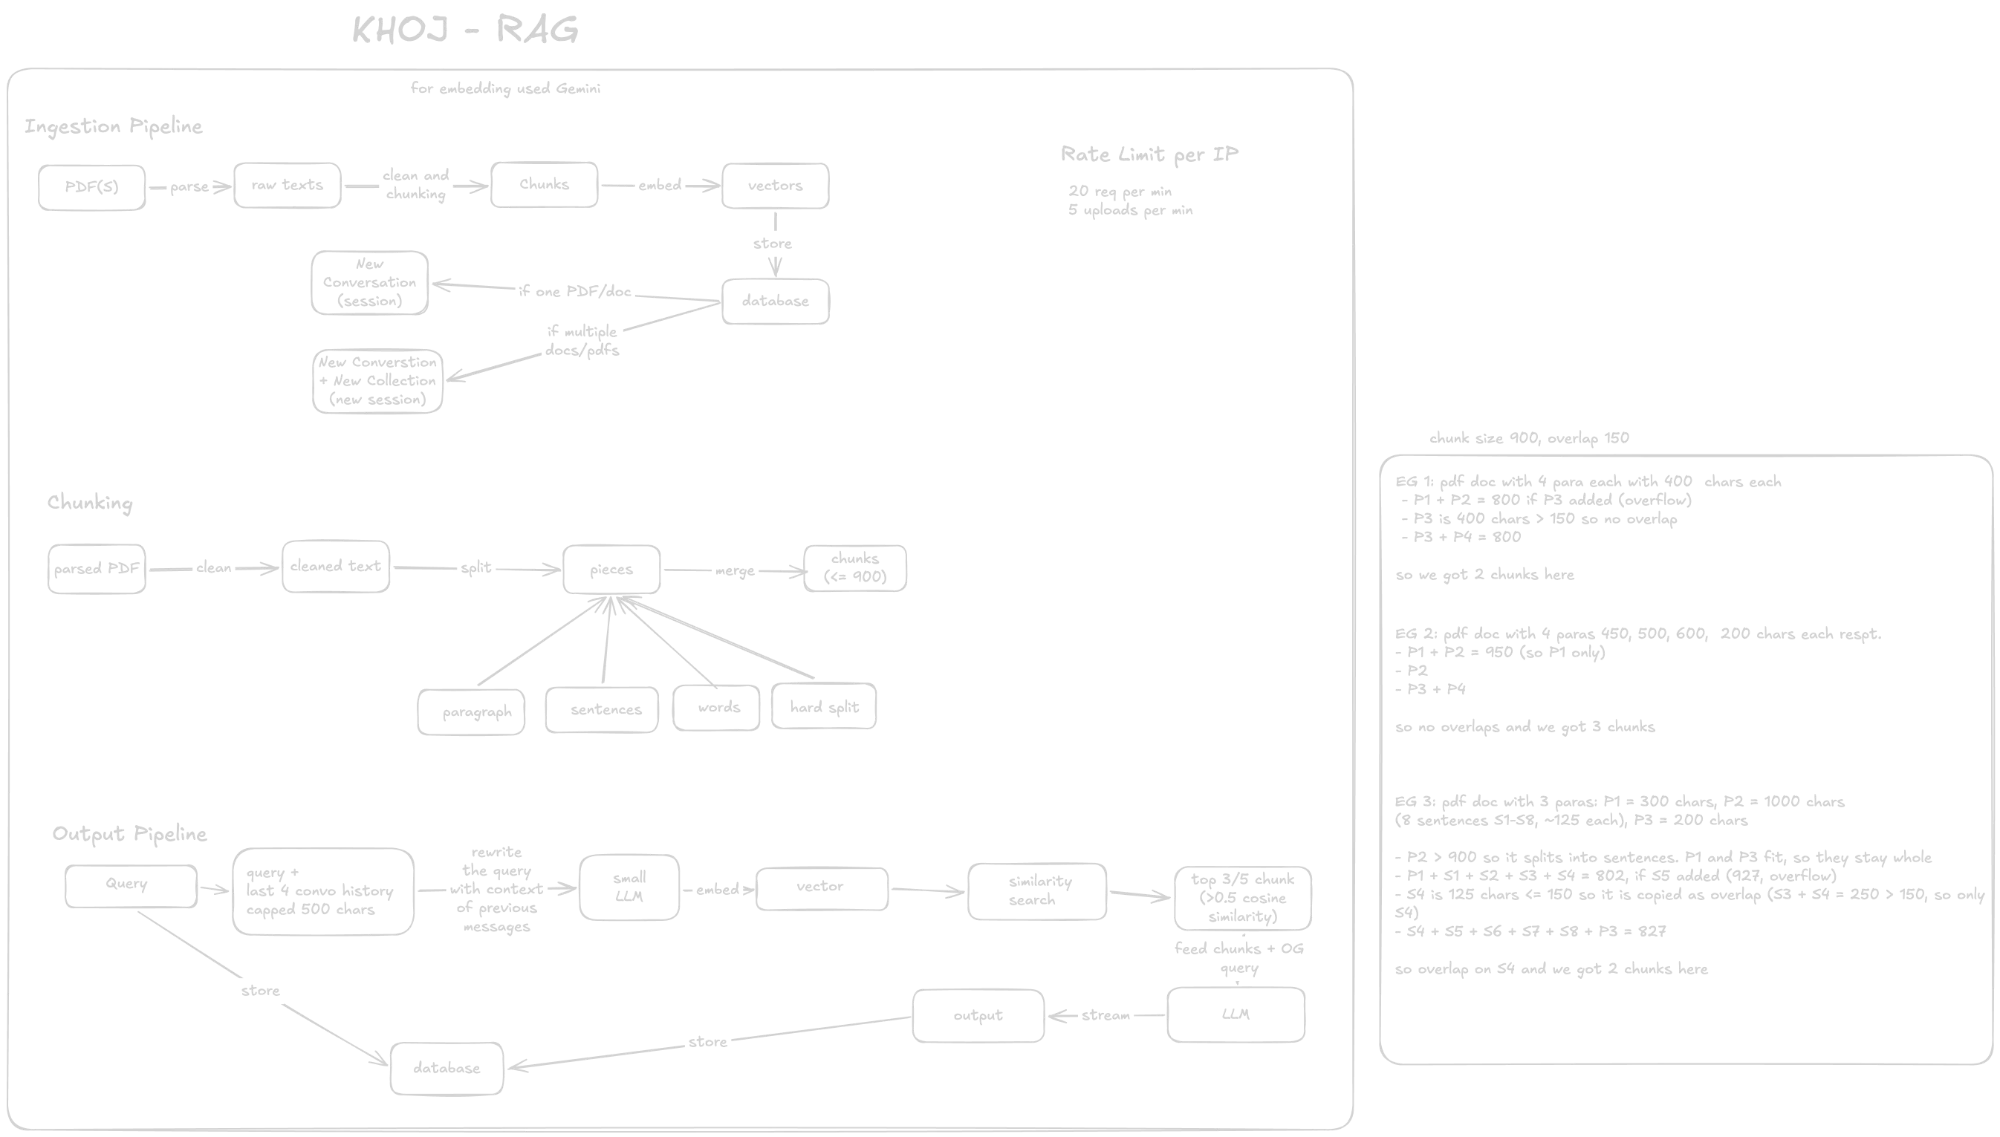
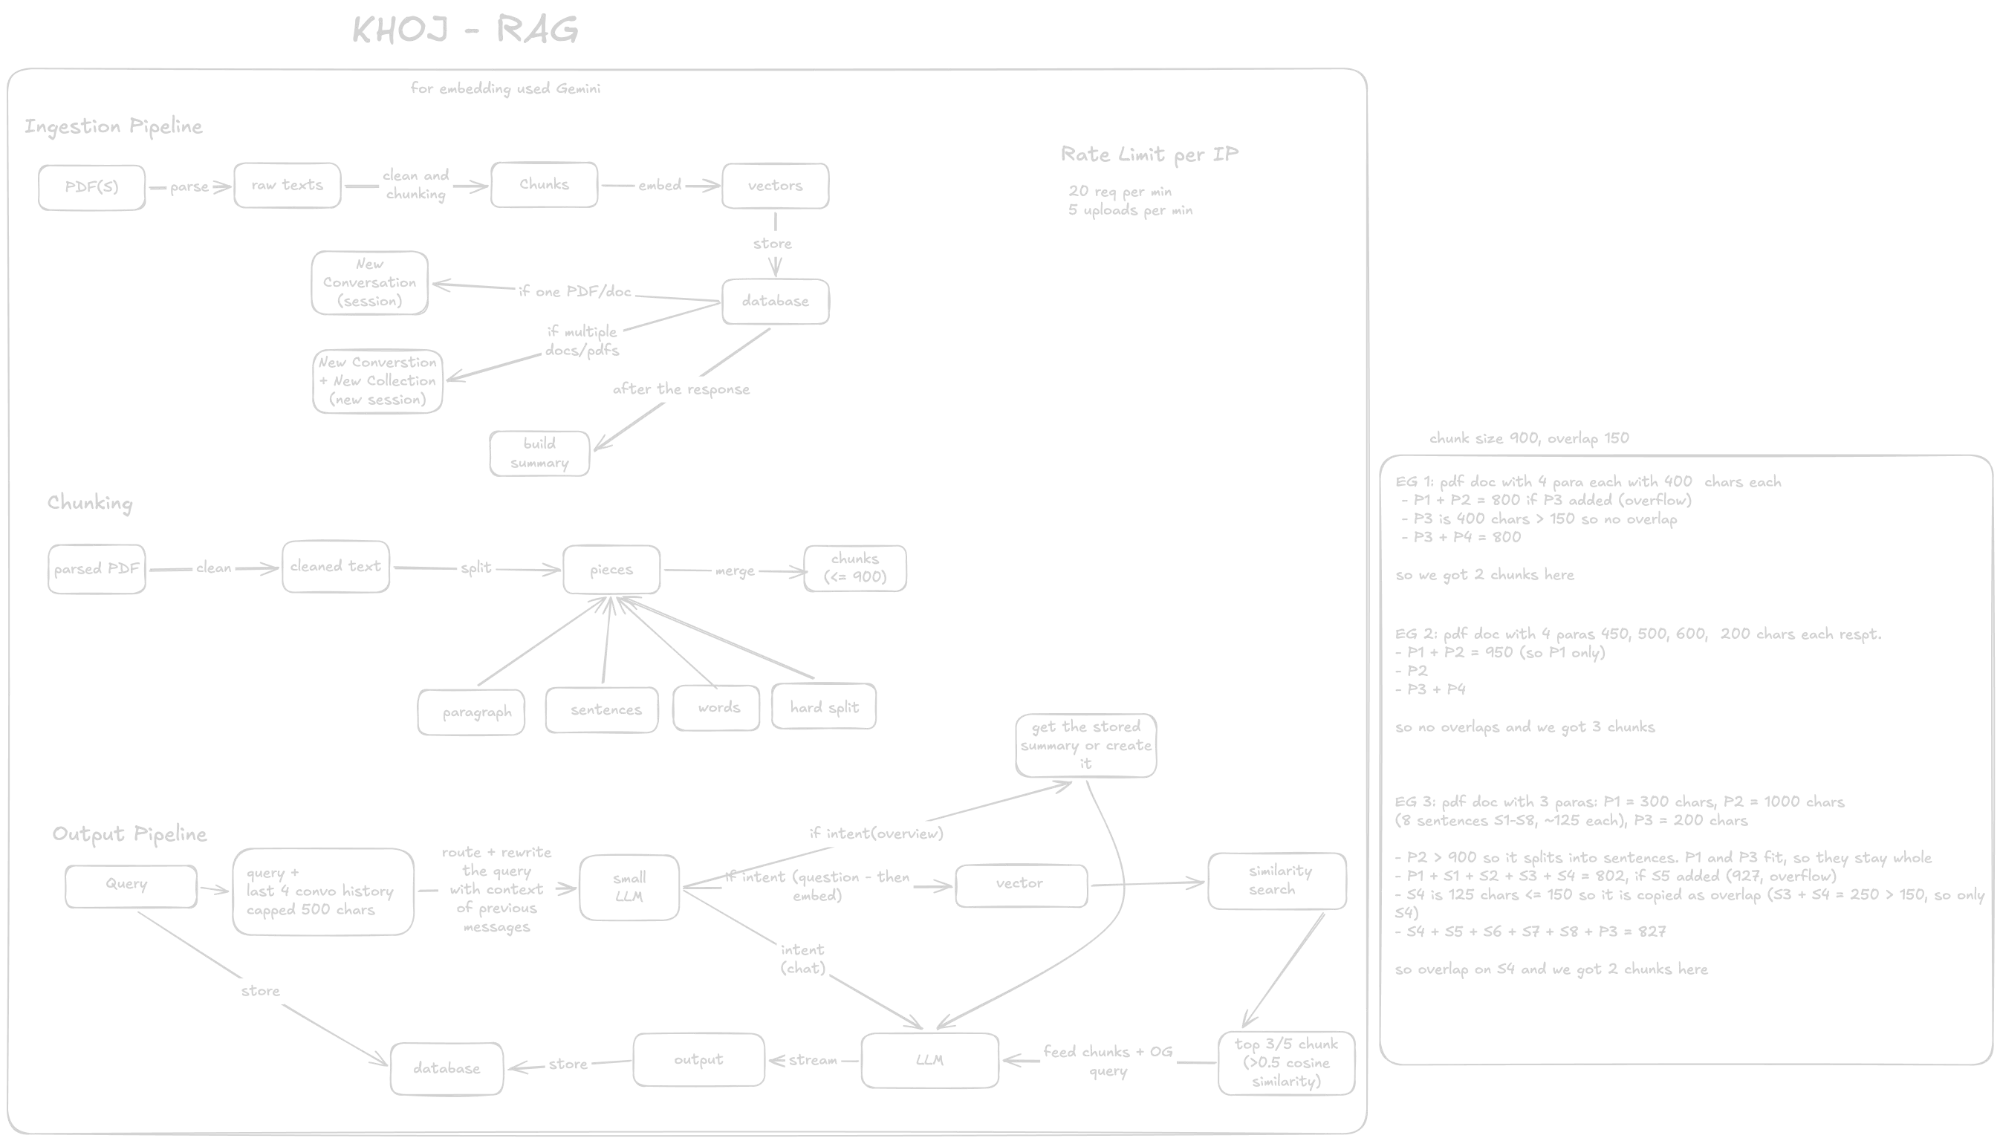
refactor: update README to clarify RAG functionality and improve documentation

diff --git a/docs/README.md b/docs/README.md
@@ -2,7 +2,7 @@
 
 Khoj lets you upload documents and chat with them. Ask a question, and the answer comes only from what is in your files.
 
-It is a basic RAG (retrieve, then read) with query rewriting: cut documents into chunks, turn each chunk into a vector, and when a question arrives, rewrite it using the chat history, find the closest chunks and hand only those to an LLM.
+It is a RAG (retrieve, then read) with a router. Documents are cut into chunks and each chunk becomes a vector. A small model first sorts every message: a question is rewritten using the chat history, searched in the chunks, and answered from the closest chunks plus a stored summary of the document; an overview request ("what are the key points?") reads that summary; small talk needs neither.
 
 ![Khoj RAG overview](images/overview.webp)
 

diff --git a/README.md b/README.md
@@ -8,7 +8,7 @@ Built with Next.js, Supabase (Postgres, Storage, Google sign-in), Gemini embeddi
 
 ## How it works
 
-Khoj is a basic RAG with query rewriting: documents are cut into chunks, each chunk becomes a vector, and a question is rewritten using the chat history and answered from the closest chunks only.
+Khoj is a RAG with a router. Documents are cut into chunks and each chunk becomes a vector. A small model first sorts every message: a question is rewritten using the chat history and answered from the closest chunks plus a stored summary of the document, an overview request ("what are the key points?") reads that summary, and small talk needs neither.
 
 ![Khoj RAG overview](docs/images/overview.webp)
 
